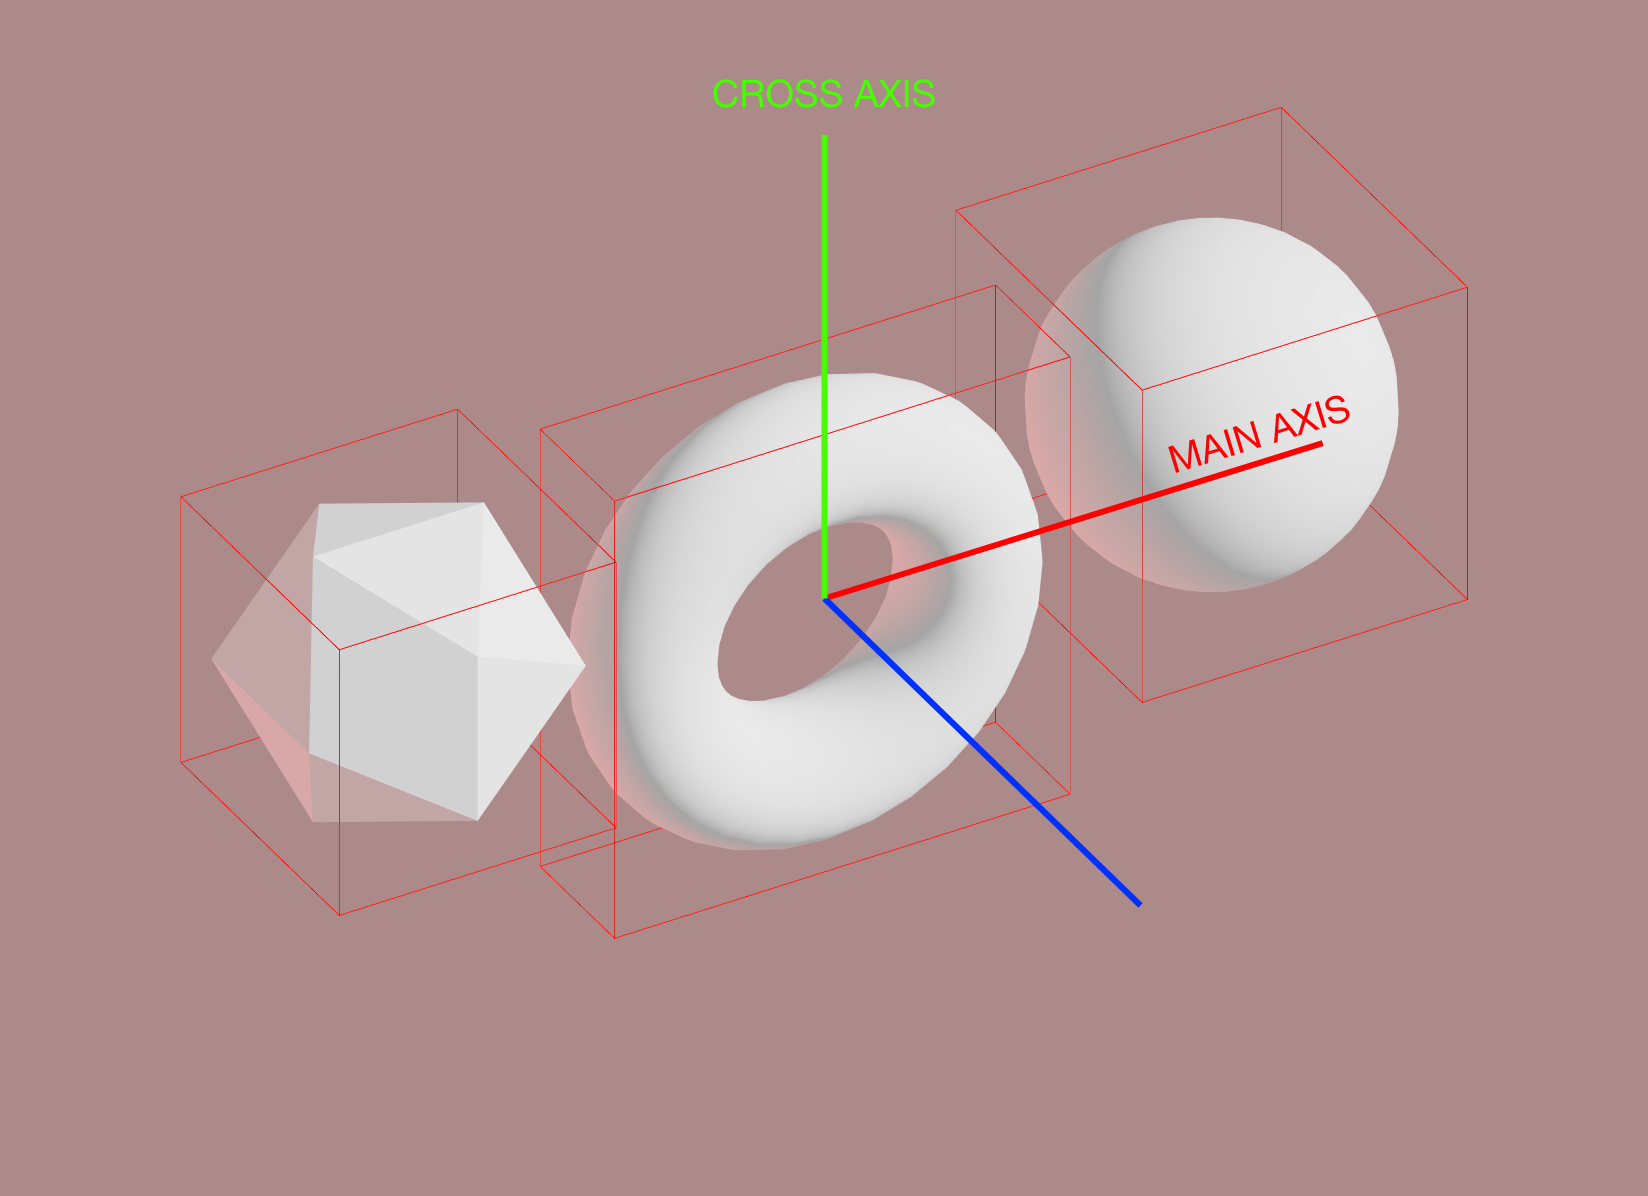
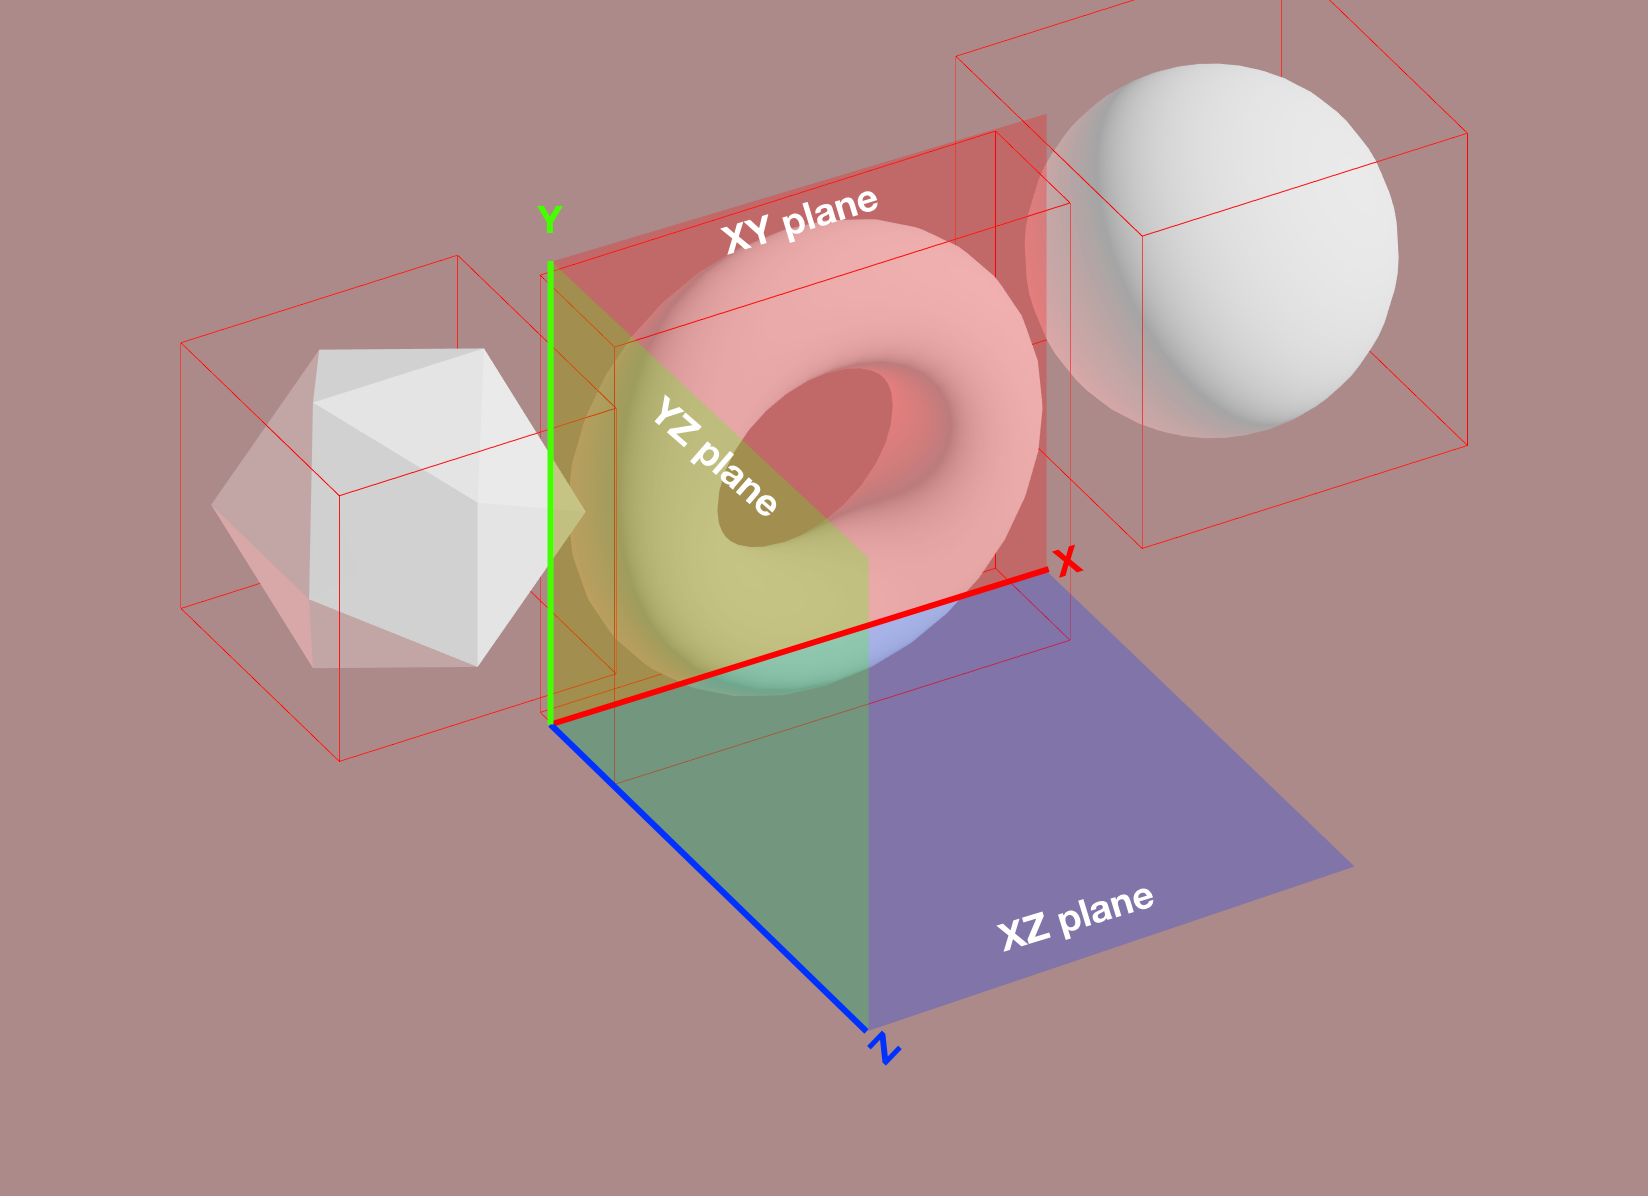
Updated readme for axes orientation

diff --git a/README.md b/README.md
@@ -60,12 +60,14 @@ You can tweak the container and the boxes using standard CSS flex properties, li
 
 ### Axis Orientation
 
-Another important difference with DOM Flexbox is that you can specify the direction of the container in 3D, using an axis and its normal. The elements will be positioned in the 2D plane given by the two axes.
+Another important difference with DOM Flexbox is that you have to specify the plane of the container in 3D. The elements will be positioned in the 2D plane given by the two axes, using width and height calculated along the two axes.
 
-The 2D flex container width and height will be calculated by looking at the `size` prop with respect of the chosen axes (200 for z and 100 for y in this example).
+The 2D flex container width and height will be calculated by looking at the `size` prop with respect of the chosen axes (100 for xy and 200 for y in this example).
+
+The default plane is `xy`, the other possibilites are `yz` and `xz`.
 
 ```jsx
-<Flex mainAxis="z" crossAxis="y" size={[0, 100, 200]}>
+<Flex plane="xy" size={[100, 200, 0]}>
   {/* ... */}
 </Flex>
 ```
@@ -118,8 +120,7 @@ Since a `<Flex />` component works the same way as a DOM one, you can easily mak
   size={[1, 1, 1]}        // Total size of the flex container, see above
   position={[0, 0, 0]}    // Default - position for the flex container in the scene
   direction="ltr"         // Default - right to left or right to left
-  mainAxis="x"            // Default - plane axis, see above
-  crossAxis="y"           // Default - plane normal axis, see above
+  plane="xy"              // Default - plane axes, see above
   {...R3FlexProps}        // Standard Flexbox props, described below
 >
   <Box>
